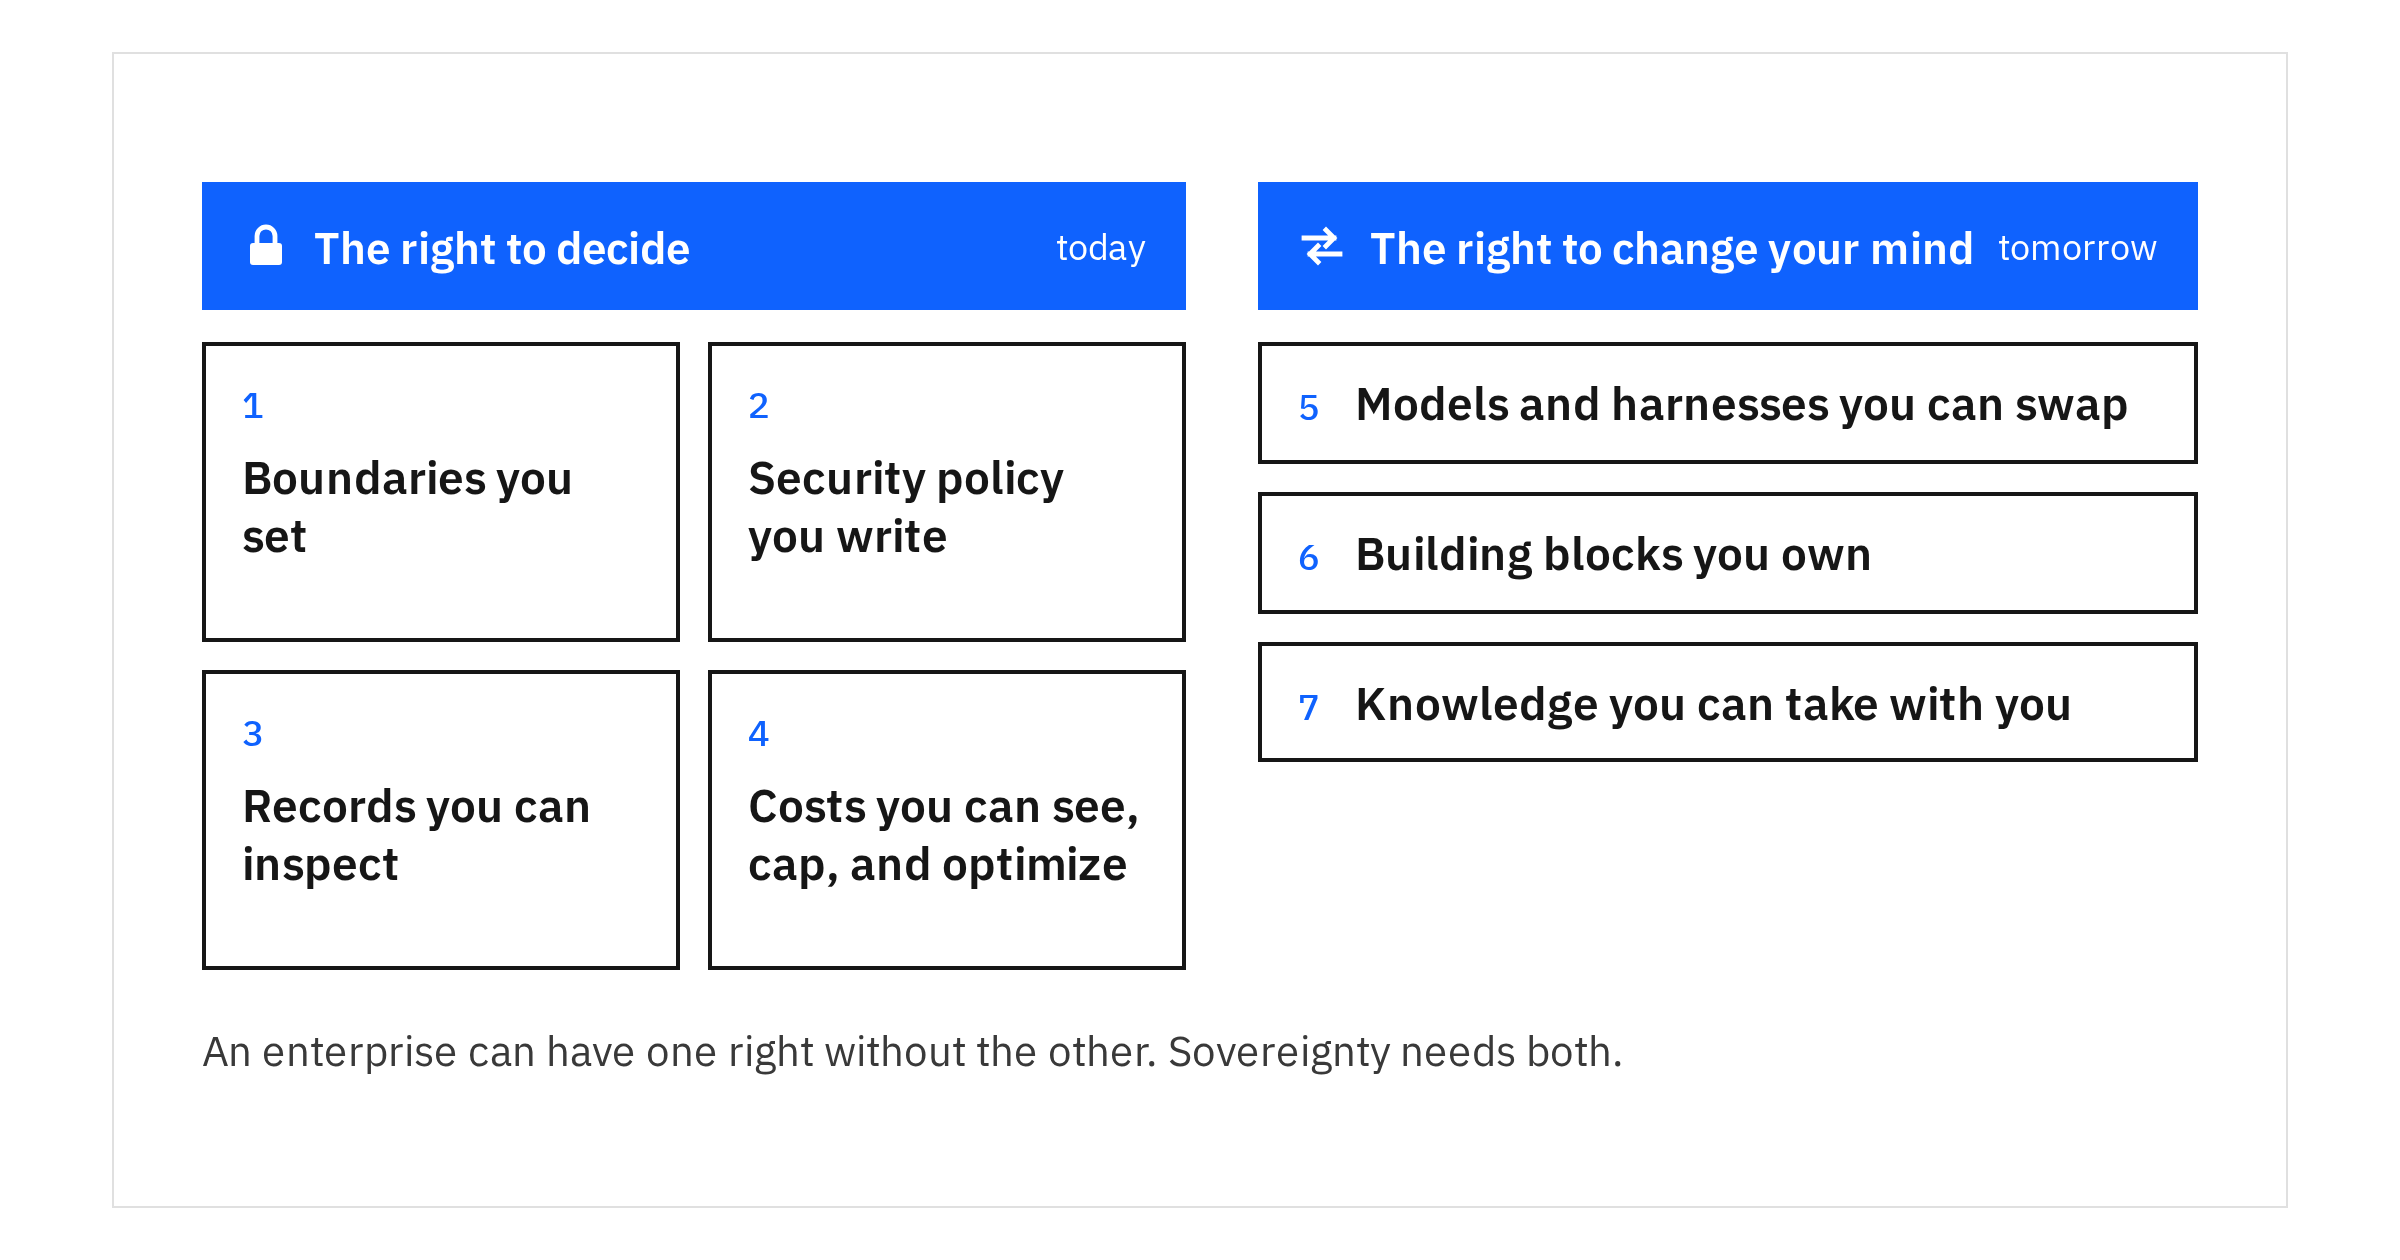
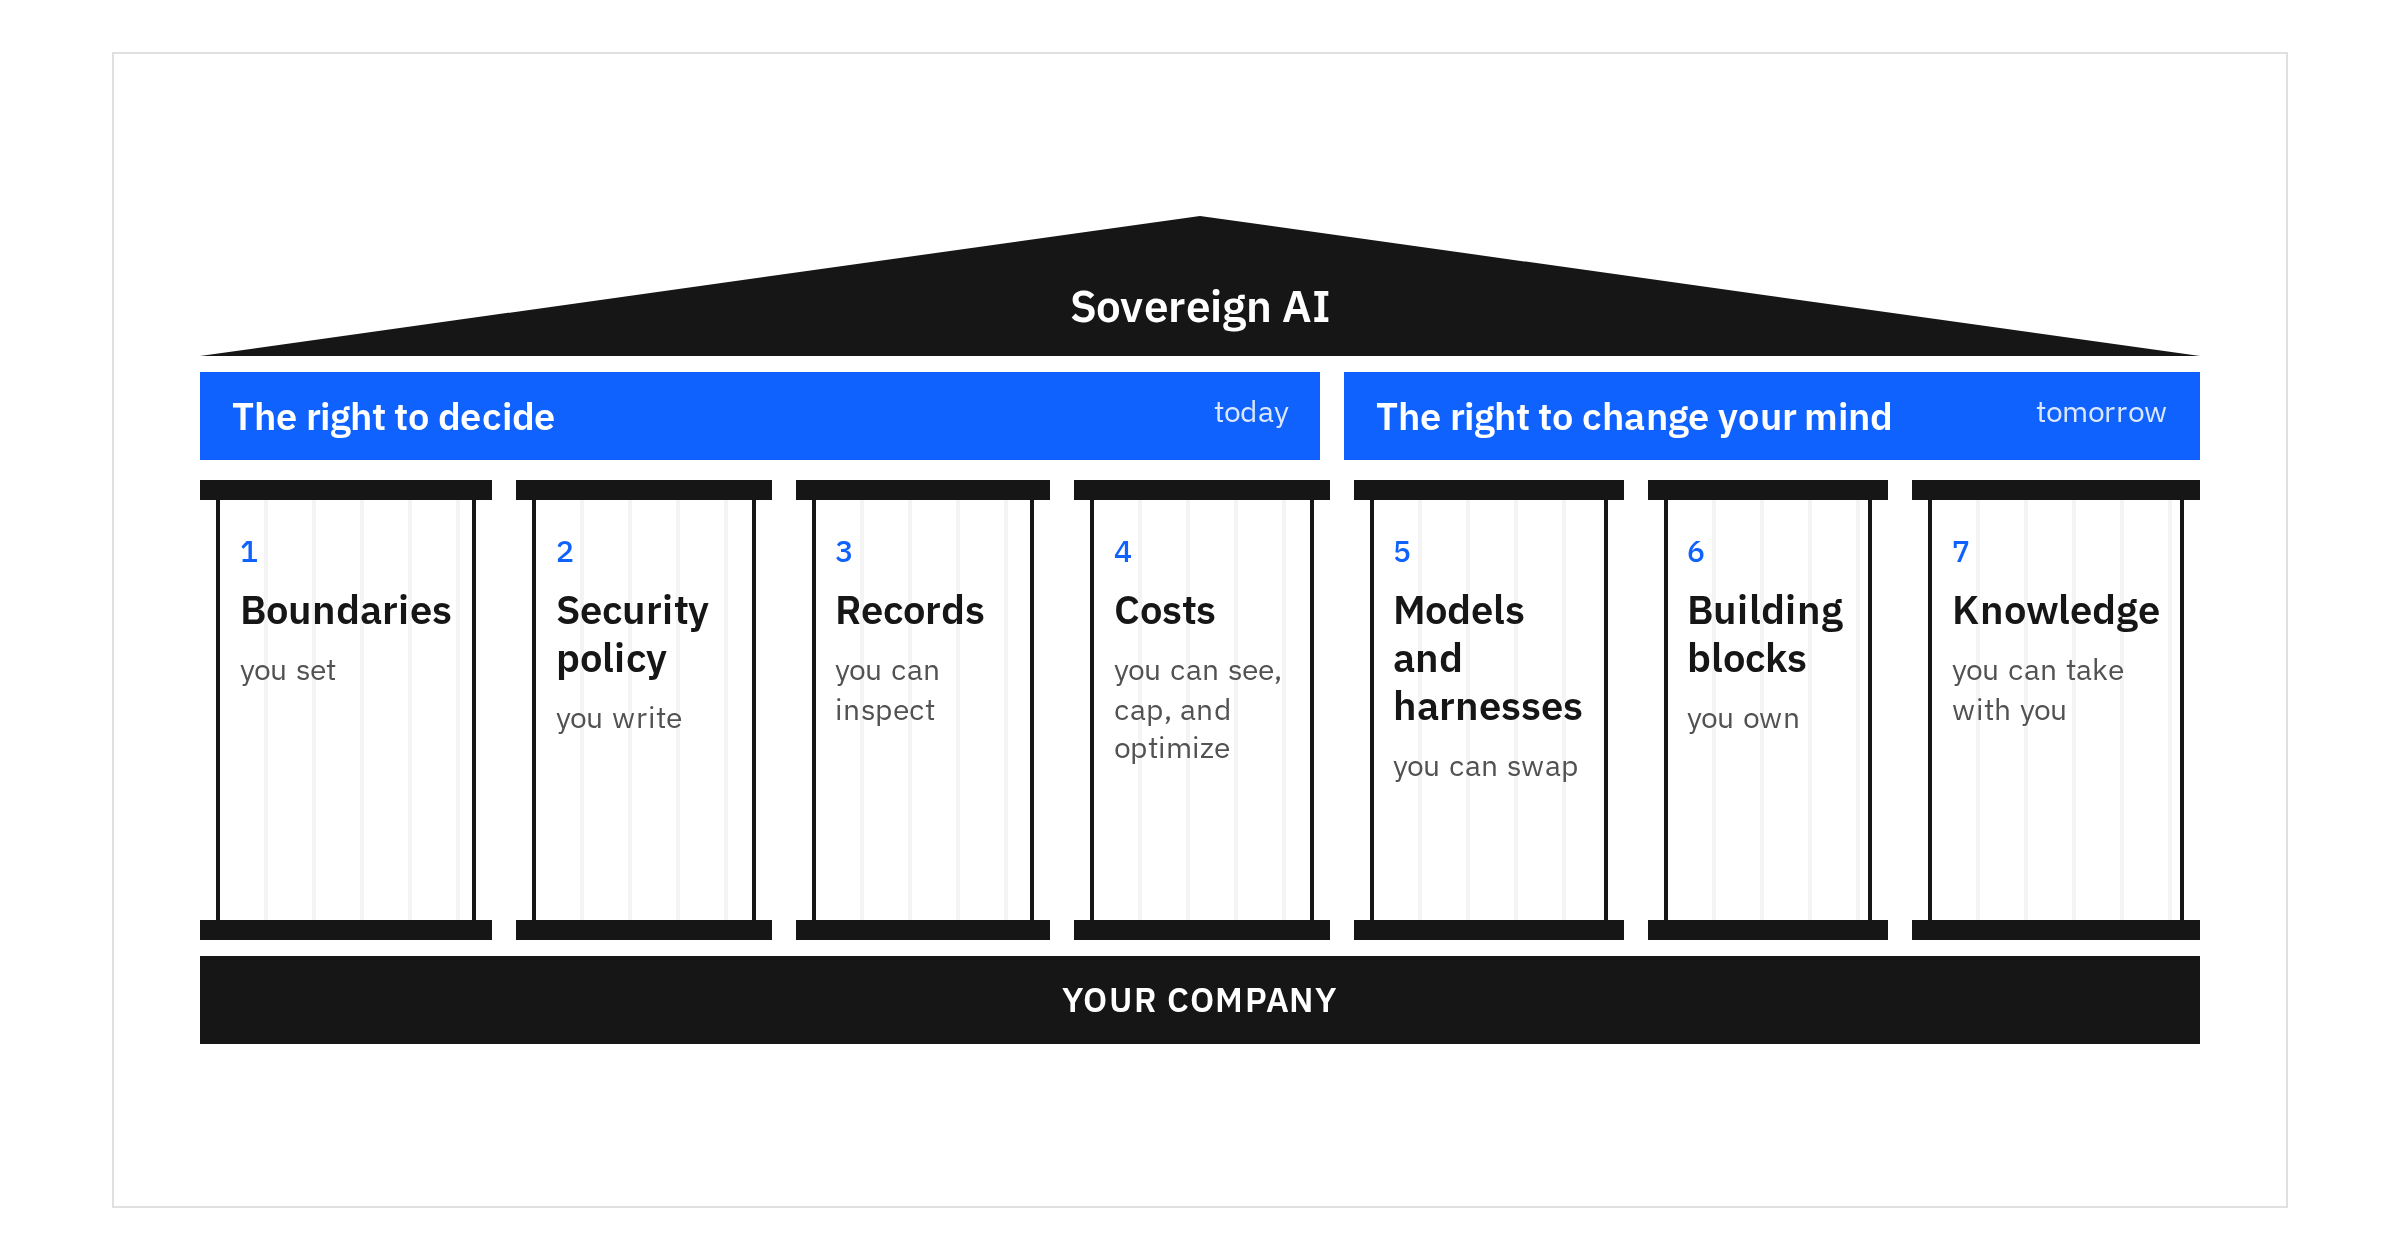
Redesign Fig. 2 of the sovereign AI post and use it as the share image (#13)
Assisted-By: Claude (Anthropic AI) <noreply@anthropic.com>

Changed region(s): [[0.0625, 0.1238, 0.9375, 0.8667], [0.9062, 0.5262, 0.9375, 0.5881]]

diff --git a/content/posts/sovereign-ai.md b/content/posts/sovereign-ai.md
@@ -2,7 +2,7 @@
 lede: "AI is becoming part of how companies build, operate, and make decisions. Sovereign AI is about having the flexibility to decide how that intelligence works inside your organization, and to change your approach as your needs evolve."
 sections: Three ways to lose control | The right to decide | The right to change your mind | When you don't need all seven | Two rights, seven pillars
 read_time: 13 min read
-cover: images/sovereign-ai-cover.png
+cover: images/sovereign-ai-pillars.png
 ---
 
 One of our workflows started failing, even though nobody on our team had changed it.
@@ -38,7 +38,7 @@ Fig. 1 — Three ways a company loses control of the AI that works inside it.
 Avoiding AI products won't fix this, and neither will building everything yourself. What helps is making sure the decisions that matter stay with you. Seven pillars describe what that takes. The first four protect the right to decide. The last three protect the right to change your mind.
 
 ![The two rights and their seven pillars. The right to decide: boundaries, security policy, records, costs. The right to change your mind: models and harnesses, building blocks, knowledge.](images/sovereign-ai-pillars.png)
-Fig. 2 — Two rights, seven pillars. Sovereignty needs both.
+Fig. 2 — Seven pillars hold up sovereign AI, grouped under the two rights they protect.
 
 ## 02 — The right to decide
 
